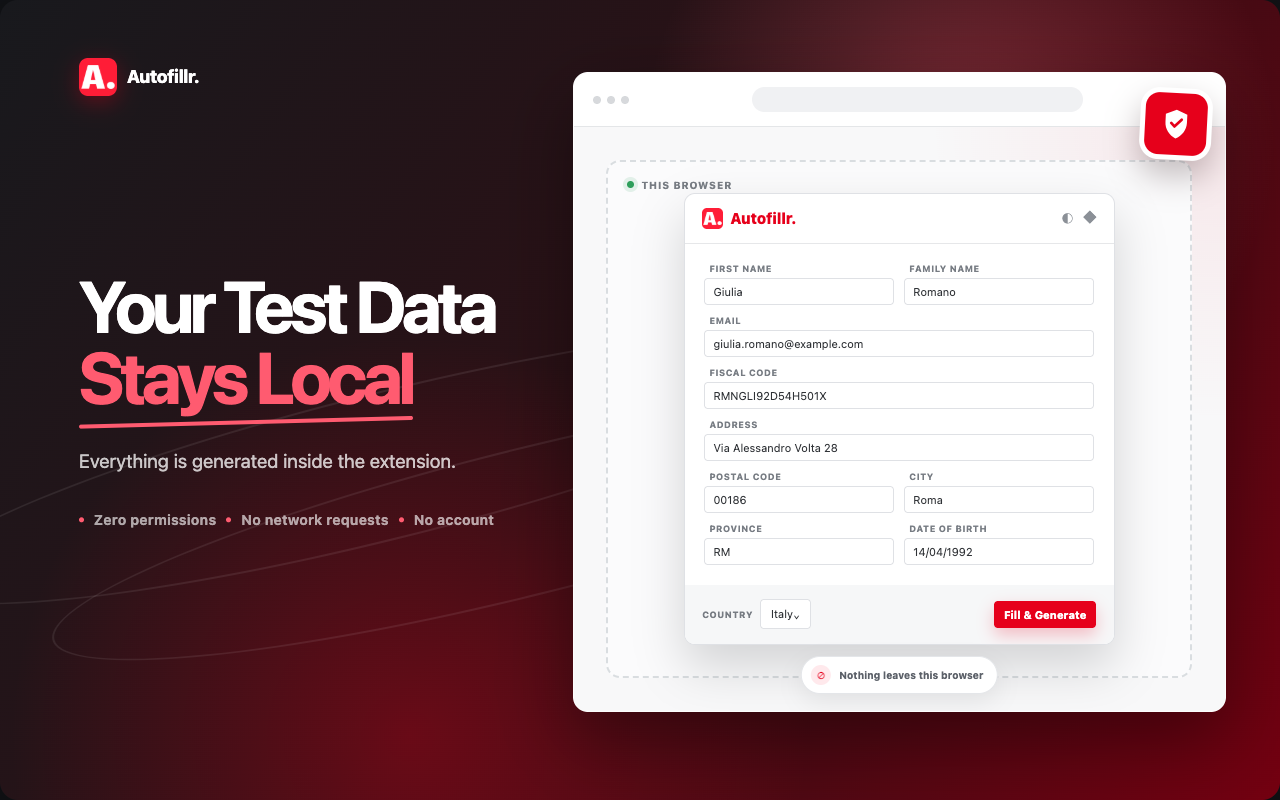
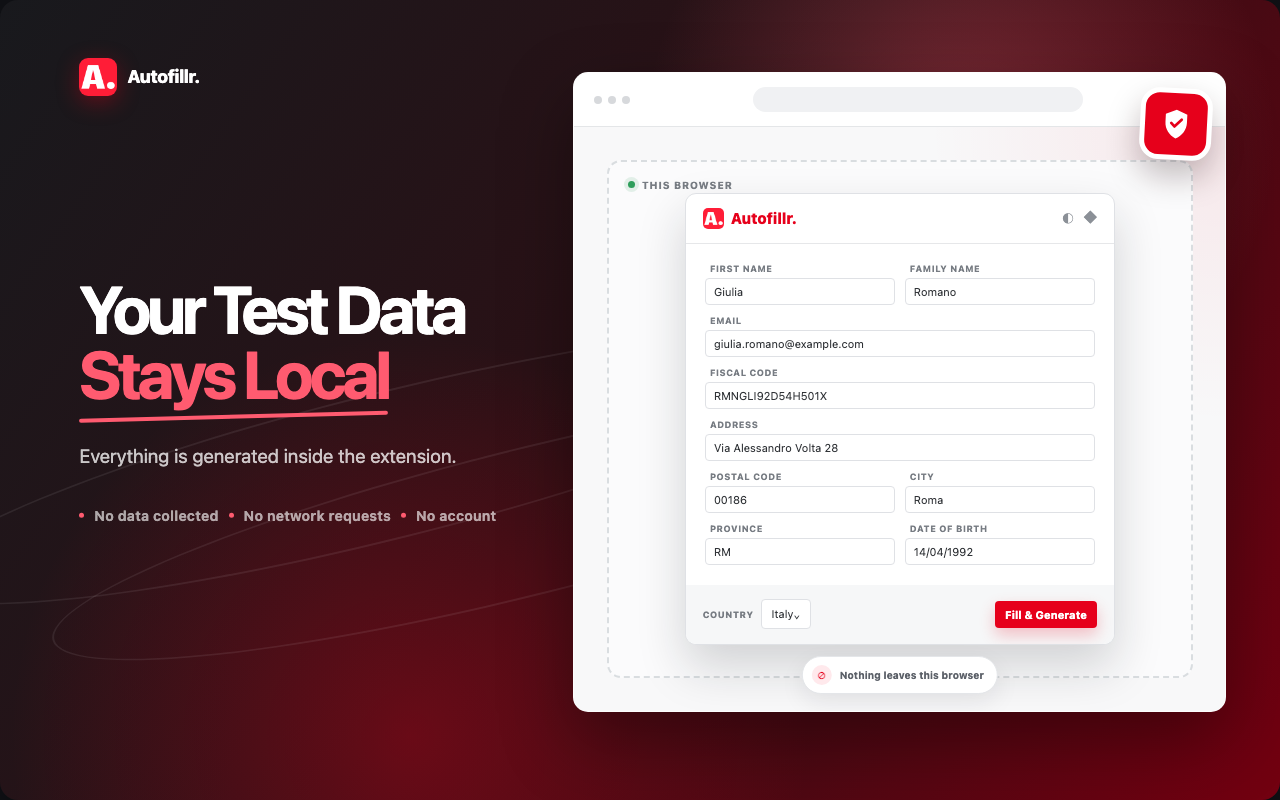
update readme + generate optiona lweb store images

diff --git a/chrome-web-store/promo-marquee.html b/chrome-web-store/promo-marquee.html
@@ -1,0 +1,126 @@
+<!doctype html>
+<html lang="en">
+  <head>
+    <meta charset="utf-8" />
+    <meta name="viewport" content="width=device-width, initial-scale=1" />
+    <title>Autofillr — Marquee promo tile (1400×560)</title>
+    <link rel="stylesheet" href="./store-visual-base.css" />
+    <style>
+      /* Store homepage banner. Rendered at exactly 1400×560; sized in cqw off the
+         artboard so the composition holds if the canvas ever changes. */
+      body {
+        min-height: auto;
+        padding: 0;
+        background: #111216;
+      }
+
+      .artboard {
+        container-type: size;
+        width: 1400px;
+        height: 560px;
+        aspect-ratio: auto;
+        border-radius: 0;
+        box-shadow: none;
+      }
+
+      .artboard::before {
+        left: -6%;
+        top: 46%;
+        width: 62%;
+        height: 34%;
+      }
+
+      .artboard::after {
+        left: 1%;
+        top: 58%;
+        width: 62%;
+        height: 34%;
+      }
+
+      /* Oversized mark bleeding off the right edge: branding, not texture. */
+      .watermark {
+        position: absolute;
+        z-index: 0;
+        top: 50%;
+        right: -13cqw;
+        width: 47cqw;
+        border-radius: 11cqw;
+        opacity: 0.1;
+        transform: translateY(-50%) rotate(-10deg);
+      }
+
+      .tile {
+        position: absolute;
+        inset: 0;
+        z-index: 1;
+        display: flex;
+        flex-direction: column;
+        justify-content: center;
+        padding: 0 4.3cqw;
+      }
+
+      .tile-brand {
+        display: flex;
+        align-items: center;
+        gap: 1cqw;
+        margin-bottom: 2.6cqw;
+        font-size: 1.55cqw;
+        font-weight: 800;
+        letter-spacing: -0.02em;
+      }
+
+      .tile-brand img {
+        width: 3.4cqw;
+        height: 3.4cqw;
+        border-radius: 0.9cqw;
+        box-shadow: 0 0.6cqw 1.8cqw rgb(230 0 27 / 40%);
+      }
+
+      .tile h1 {
+        margin: 0;
+        font-size: 5.7cqw;
+        line-height: 0.98;
+        letter-spacing: -0.055em;
+      }
+
+      .tile .accent {
+        position: relative;
+        display: inline-block;
+        color: #ff5b70;
+      }
+
+      .tile .accent::after {
+        content: '';
+        position: absolute;
+        left: 0;
+        right: 0;
+        bottom: -0.17em;
+        height: 0.055em;
+        border-radius: 999px;
+        background: #ff5b70;
+        transform: rotate(-1.5deg);
+      }
+
+      .tile .lede {
+        max-width: 58cqw;
+        margin: 3.4cqw 0 0;
+        color: rgb(255 255 255 / 76%);
+        font-size: 1.62cqw;
+        line-height: 1.5;
+      }
+    </style>
+  </head>
+  <body>
+    <main class="artboard">
+      <img class="watermark" src="../public/Autofillr-512.png" alt="" />
+      <div class="tile">
+        <div class="tile-brand">
+          <img src="../public/Autofillr-512.png" alt="" />
+          <span>Autofillr.</span>
+        </div>
+        <h1>Fill Test Forms <span class="accent">In One Click</span></h1>
+        <p class="lede">Random test data that passes validation, generated on your machine.</p>
+      </div>
+    </main>
+  </body>
+</html>

diff --git a/chrome-web-store/promo-small.html b/chrome-web-store/promo-small.html
@@ -1,0 +1,102 @@
+<!doctype html>
+<html lang="en">
+  <head>
+    <meta charset="utf-8" />
+    <meta name="viewport" content="width=device-width, initial-scale=1" />
+    <title>Autofillr — Small promo tile (440×280)</title>
+    <link rel="stylesheet" href="./store-visual-base.css" />
+    <style>
+      /* Store merchandising tile. Rendered at exactly 440×280, so the artboard is
+         a fixed-size container and everything inside is sized in cqw. */
+      body {
+        min-height: auto;
+        padding: 0;
+        background: #111216;
+      }
+
+      .artboard {
+        container-type: size;
+        width: 440px;
+        height: 280px;
+        aspect-ratio: auto;
+        border-radius: 0;
+        box-shadow: none;
+      }
+
+      .artboard::before {
+        left: -10%;
+        top: 50%;
+        width: 88%;
+        height: 30%;
+      }
+
+      .artboard::after {
+        left: 2%;
+        top: 61%;
+        width: 88%;
+        height: 30%;
+      }
+
+      .tile {
+        position: absolute;
+        inset: 0;
+        display: flex;
+        flex-direction: column;
+        justify-content: space-between;
+        padding: 7.6cqw 7.6cqw 10.6cqw;
+      }
+
+      .tile-brand {
+        display: flex;
+        align-items: center;
+        gap: 2.6cqw;
+        font-size: 4.3cqw;
+        font-weight: 800;
+        letter-spacing: -0.02em;
+      }
+
+      .tile-brand img {
+        width: 10cqw;
+        height: 10cqw;
+        border-radius: 2.6cqw;
+        box-shadow: 0 1.8cqw 5cqw rgb(230 0 27 / 40%);
+      }
+
+      .tile h1 {
+        margin: 0;
+        font-size: 10.4cqw;
+        line-height: 0.98;
+        letter-spacing: -0.055em;
+      }
+
+      .tile .accent {
+        position: relative;
+        display: inline-block;
+        color: #ff5b70;
+      }
+
+      .tile .accent::after {
+        content: '';
+        position: absolute;
+        left: 0;
+        right: 0;
+        bottom: -0.17em;
+        height: 0.055em;
+        border-radius: 999px;
+        background: #ff5b70;
+        transform: rotate(-1.5deg);
+      }
+    </style>
+  </head>
+  <body>
+    <main class="artboard">
+      <div class="tile">
+        <div class="tile-brand">
+          <img src="../public/Autofillr-512.png" alt="" />
+          <span>Autofillr.</span>
+        </div>
+        <h1>Fill Test Forms<br /><span class="accent">In One Click</span></h1>
+      </div>
+    </main>
+  </body>
+</html>

diff --git a/chrome-web-store/04-local-data.html b/chrome-web-store/04-local-data.html
@@ -157,7 +157,7 @@
         <h1>Your Test Data<br /><span class="accent">Stays Local</span></h1>
         <p class="lede">Everything is generated inside the extension.</p>
         <div class="proof">
-          <i></i><span>Zero permissions</span><i></i><span>No network requests</span><i></i
+          <i></i><span>No data collected</span><i></i><span>No network requests</span><i></i
           ><span>No account</span>
         </div>
       </section>

diff --git a/README.md b/README.md
@@ -5,15 +5,15 @@
 [![License](https://img.shields.io/github/license/umutcanbolat/Autofillr?logoColor=white&logo=gnu&style=flat-square)](LICENSE)
 [![Conventional Commits](https://img.shields.io/badge/conventional%20commits-1.0.0-fe5196.svg?style=flat-square)](https://conventionalcommits.org)
 
-A browser extension that fills registration forms with random but _consistent_ data — the generated fields stay valid against each other. Where a country encodes the date of birth in its national identification number, for instance, Autofillr makes the two agree.
+A browser extension that fills registration forms with random but _consistent_ data — the generated fields stay valid against each other. The email comes from the name, the national identification number encodes the date of birth, and the postcode, city and phone area code all belong to the same place.
 
 The point is to take the pain out of testing forms with strict validation, which otherwise means hand-crafting valid data several times a day.
 
-Everything is generated locally: no requests to any remote service. Fields are matched via [the HTML autocomplete attribute](https://developer.mozilla.org/en-US/docs/Web/HTML/Attributes/autocomplete). Text fields, text areas, and matching dropdown options are filled.
+Everything is generated inside the extension: no requests to any remote service, no account, nothing collected. Fields are matched via [the HTML autocomplete attribute](https://developer.mozilla.org/en-US/docs/Web/HTML/Attributes/autocomplete). Text fields, text areas, and matching dropdown options are filled.
 
 [Install from the Chrome Web Store](https://chromewebstore.google.com/detail/autofillr/jcgfleiagjfjlgdpbignhphpdcbjplco), then try it on the [test form](https://umutcanbolat.github.io/Autofillr/).
 
-<img src="https://user-images.githubusercontent.com/10065235/109368480-8adcfd00-7899-11eb-85a9-293b67c69688.gif" alt="Autofilr Gif" width="720"/>
+<img src="chrome-web-store/img/1.png" alt="Autofillr filling a registration form with consistent Italian test data" width="720" />
 
 ## Development
 
